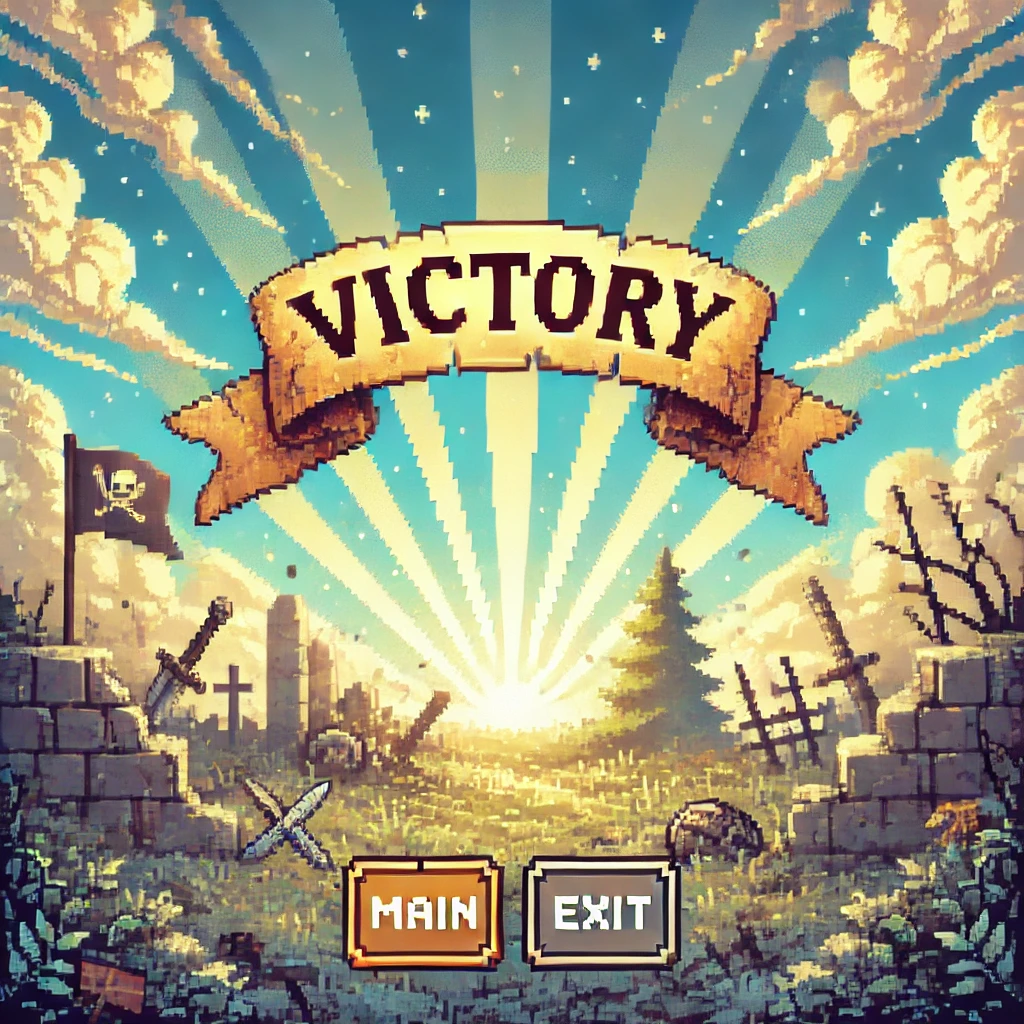
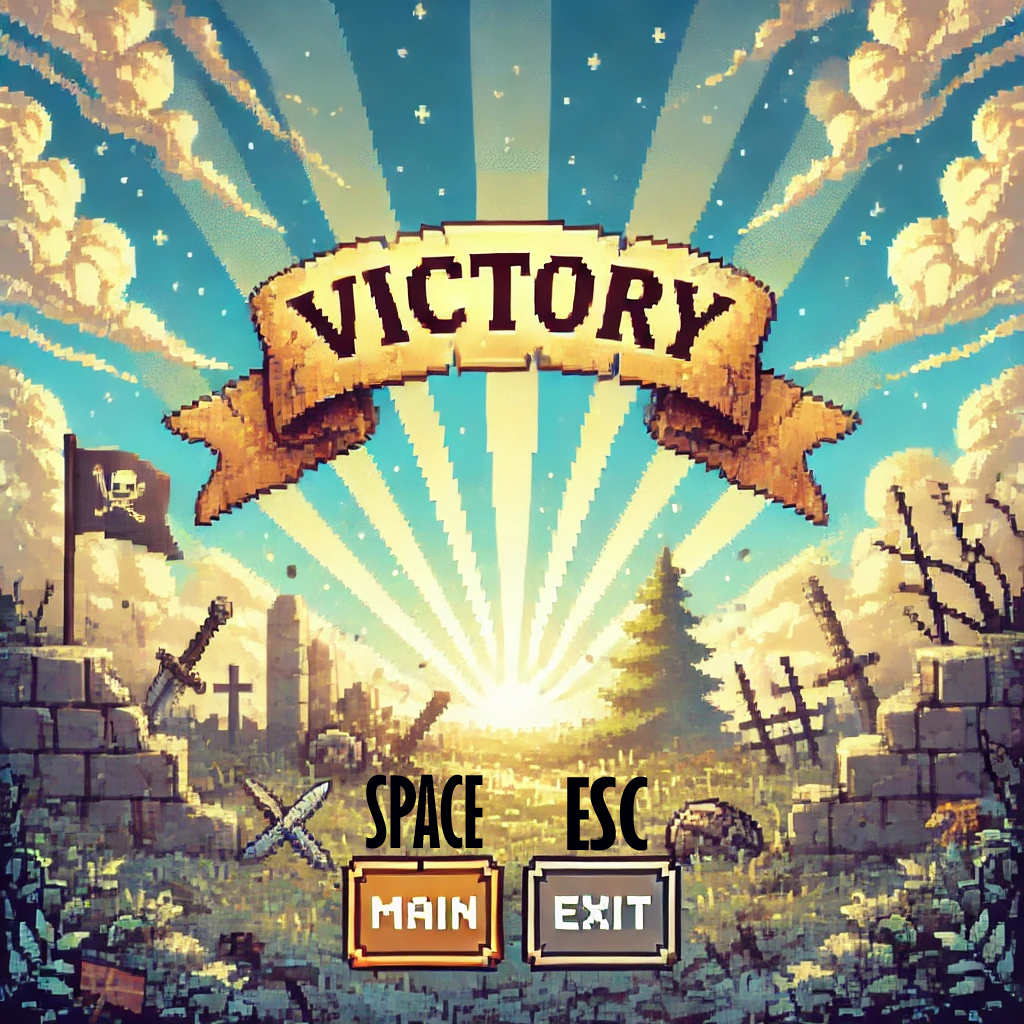
lose, win, start 구현 완료

Changed region(s): [[0.3438, 0.75, 0.4688, 0.8438], [0.5312, 0.75, 0.625, 0.8438]]

diff --git a/start_mode.py b/start_mode.py
@@ -1,0 +1,41 @@
+from pico2d import *
+from pico2d import clear_canvas, update_canvas, get_events, load_image
+
+import game_framework
+import stage1_mode  # 게임 시작 시 이동할 모드
+
+start_image = None  # 시작 화면 이미지
+
+def init():
+    """시작 모드에 진입"""
+    global start_image
+    open_canvas()
+    start_image = load_image('./assets/game_start.png')  # 시작 화면 이미지 로드
+
+def update():
+    pass
+
+def draw():
+    clear_canvas()
+    start_image.draw_to_origin(0, 0, 800, 600)
+    update_canvas()
+
+def handle_events():
+    events = get_events()
+    for event in events:
+        if event.type == SDL_QUIT:
+            exit_game()
+        elif event.type == SDL_KEYDOWN:
+            if event.key == SDLK_SPACE:  # 스페이스바로 게임 시작
+                game_framework.change_mode(stage1_mode)
+            elif event.key == SDLK_ESCAPE:  # ESC 키로 게임 종료
+                exit_game()
+
+def exit_game():
+    global start_image
+    if start_image:
+        del start_image
+    game_framework.quit()
+
+def finish():
+    pass

diff --git a/lose_mode.py b/lose_mode.py
@@ -38,12 +38,15 @@ def handle_events():
     for event in events:
         if event.type == SDL_QUIT:
             game_framework.quit()
-        elif event.type == SDL_KEYDOWN and event.key == SDLK_r:  # R키로 재시작
+        elif event.type == SDL_KEYDOWN and event.key == SDLK_SPACE:  # R키로 재시작
             # 현재 스테이지에 따라 해당 스테이지로 돌아감
             if current_stage == "stage1":
                 game_framework.change_mode(stage1_mode)
             elif current_stage == "stage2":
                 game_framework.change_mode(stage2_mode)
+        elif event.type == SDL_KEYDOWN and event.key == SDLK_ESCAPE:
+            exit()
+
 
 def finish():
     global image

diff --git a/win_mode.py b/win_mode.py
@@ -28,9 +28,9 @@ def handle_events():
         elif event.type == SDL_KEYDOWN:
             if event.key == SDLK_ESCAPE:  # ESC 키로 게임 종료
                 exit()
-            elif event.key == SDLK_m:  # M 키로 메인 화면으로 이동
-                import main_mode
-                game_framework.change_mode(main_mode)
+            elif event.key == SDLK_SPACE:  # M 키로 메인 화면으로 이동
+                import start_mode
+                game_framework.change_mode(start_mode)
 
 def exit():
     global win_image

diff --git a/base_stage.py b/base_stage.py
@@ -69,7 +69,6 @@ def init():
     # 스테이지 시작 시 Key 표시 시간 초기화
     key_display_time = 200  # 현재 시간 + 3분
 
-
     # 폭발 효과 및 제거 타이머 초기화
     monster_removal_timers = []
     bomb_effects = []

diff --git a/main.py b/main.py
@@ -4,5 +4,6 @@ import base_stage
 import lose_mode
 import stage1_mode
 import stage2_mode
+import start_mode
 
-game_framework.run(stage1_mode)
+game_framework.run(start_mode)

diff --git a/stage1_mode.py b/stage1_mode.py
@@ -1,4 +1,5 @@
 import base_stage
+import game_framework
 
 def init():
     base_stage.init()
